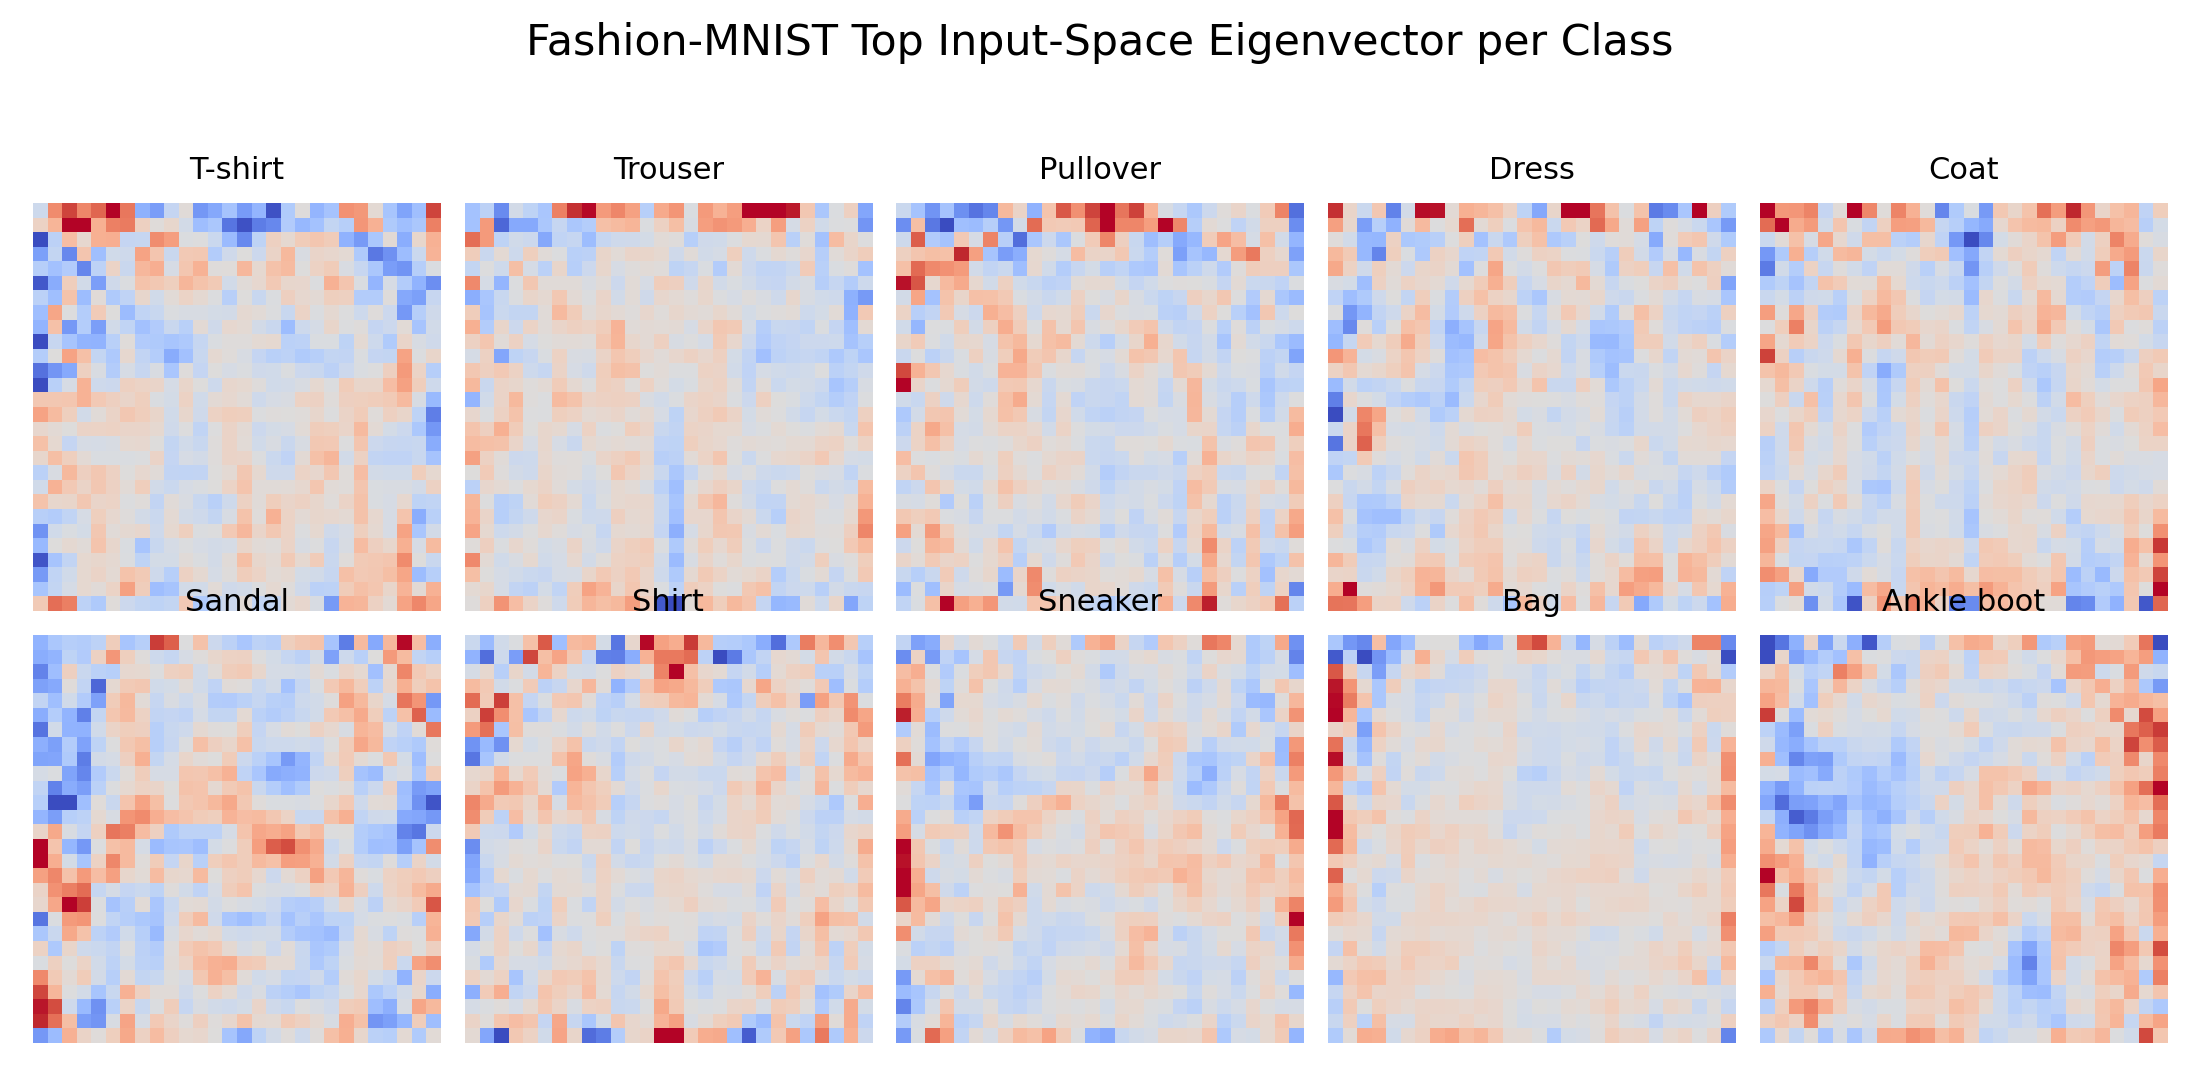
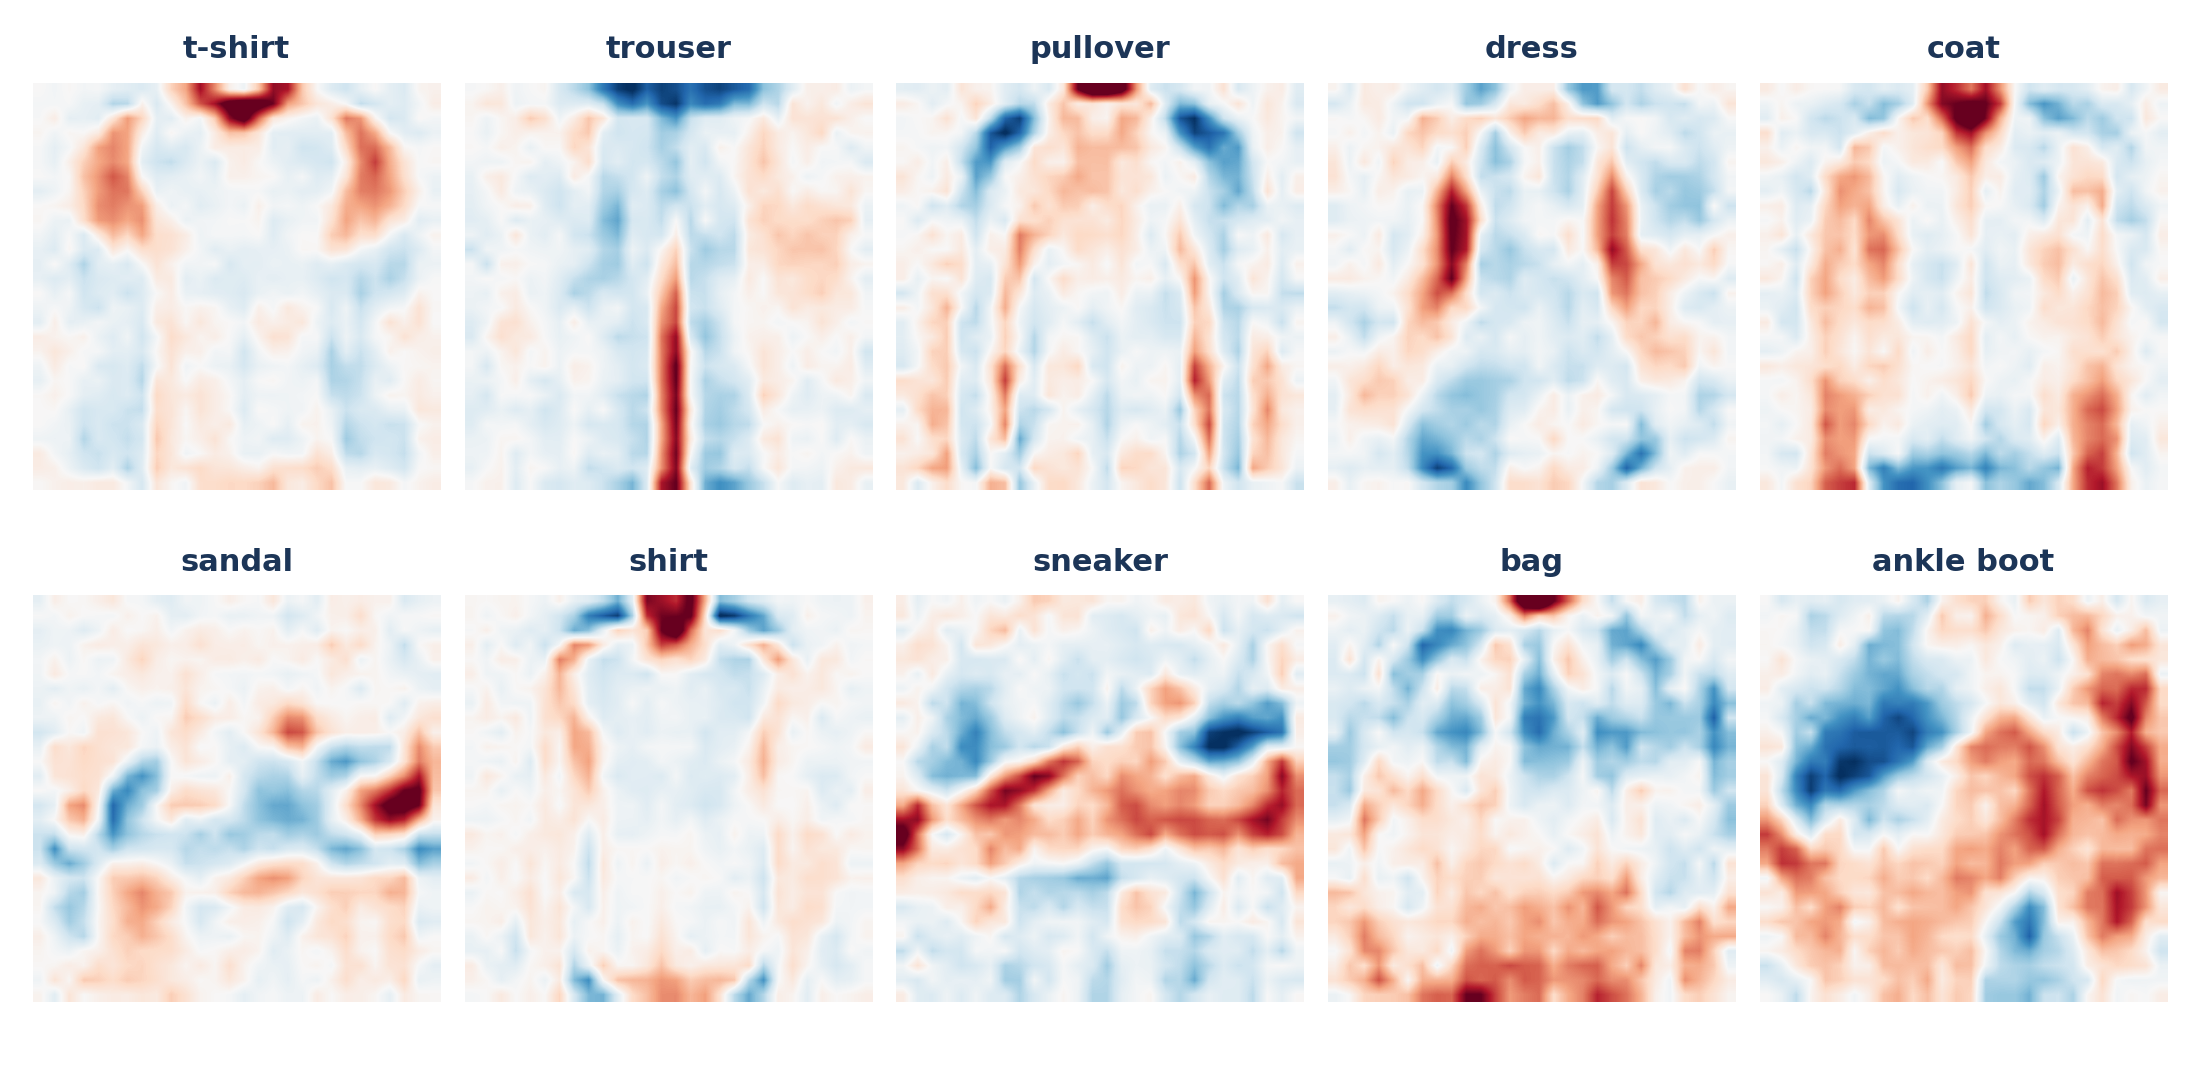
Improve Task C report eigenvector figures

diff --git a/scripts/build_task_c_report_assets.py b/scripts/build_task_c_report_assets.py
@@ -1,0 +1,113 @@
+#!/usr/bin/env python
+from __future__ import annotations
+
+import argparse
+import os
+from pathlib import Path
+
+os.environ.setdefault('MPLCONFIGDIR', str(Path('report_assets/.mplconfig')))
+
+import matplotlib.pyplot as plt
+import torch
+
+from _bootstrap import ensure_src_on_path
+from visualize_eigenvectors import CLASS_NAMES, load_decomposition, orient_vector, reshape_vector, select_component_indices
+
+ensure_src_on_path()
+
+
+def parse_indices(raw: str) -> list[int]:
+    return [int(value.strip()) for value in raw.split(',') if value.strip()]
+
+
+def selected_images(
+    *,
+    decomposition_path: Path,
+    dataset: str,
+    class_indices: list[int],
+    image_size: int,
+    channels: int,
+    component_mode: str,
+) -> list[tuple[str, torch.Tensor]]:
+    payload = load_decomposition(decomposition_path)
+    eigenvalues = payload['eigenvalues']
+    eigenvectors_input = payload['eigenvectors_input']
+    component_indices = select_component_indices(eigenvalues, component_mode)
+    class_names = CLASS_NAMES[dataset]
+
+    images = []
+    for class_idx in class_indices:
+        component_idx = int(component_indices[class_idx].item())
+        vector = orient_vector(eigenvectors_input[class_idx, component_idx])
+        images.append((class_names[class_idx], reshape_vector(vector, channels, image_size)))
+    return images
+
+
+def plot_comparison(
+    *,
+    rows: list[list[tuple[str, torch.Tensor]]],
+    output_path: Path,
+    channels: int,
+    quantile: float,
+) -> None:
+    row_count = len(rows)
+    col_count = max(len(row) for row in rows)
+    fig, axes = plt.subplots(row_count, col_count, figsize=(col_count * 1.8, row_count * 1.85))
+    if row_count == 1:
+        axes = [axes]
+
+    for row_idx, row in enumerate(rows):
+        for col_idx in range(col_count):
+            ax = axes[row_idx][col_idx]
+            ax.axis('off')
+            if col_idx >= len(row):
+                continue
+            label, image = row[col_idx]
+            vmax = float(torch.quantile(image.abs().flatten(), quantile).item())
+            if channels == 1:
+                ax.imshow(image, cmap='RdBu_r', vmin=-vmax, vmax=vmax, interpolation='bilinear')
+            else:
+                ax.imshow(image, cmap='RdBu_r', vmin=-vmax, vmax=vmax, interpolation='bilinear')
+            ax.set_title(label, fontsize=10, fontweight='bold', color='#1c3557', pad=6)
+
+    fig.tight_layout(h_pad=0.9, w_pad=0.55)
+    output_path.parent.mkdir(parents=True, exist_ok=True)
+    fig.savefig(output_path, dpi=300)
+    plt.close(fig)
+
+
+def main() -> None:
+    parser = argparse.ArgumentParser(description='Build compact Task C report eigenvector panels.')
+    parser.add_argument('--mnist-decomposition', type=Path, required=True)
+    parser.add_argument('--fmnist-decomposition', type=Path, required=True)
+    parser.add_argument('--output', type=Path, default=Path('report_assets/task_c/task_c_eigenvector_panel.png'))
+    parser.add_argument('--mnist-classes', type=str, default='1,2,3,4,5')
+    parser.add_argument('--fmnist-classes', type=str, default='1,2,3,4,5')
+    parser.add_argument('--component-mode', choices=['largest', 'abs'], default='largest')
+    parser.add_argument('--quantile', type=float, default=0.995)
+    args = parser.parse_args()
+
+    rows = [
+        selected_images(
+            decomposition_path=args.mnist_decomposition,
+            dataset='mnist',
+            class_indices=parse_indices(args.mnist_classes),
+            image_size=28,
+            channels=1,
+            component_mode=args.component_mode,
+        ),
+        selected_images(
+            decomposition_path=args.fmnist_decomposition,
+            dataset='fashion_mnist',
+            class_indices=parse_indices(args.fmnist_classes),
+            image_size=28,
+            channels=1,
+            component_mode=args.component_mode,
+        ),
+    ]
+    plot_comparison(rows=rows, output_path=args.output, channels=1, quantile=float(args.quantile))
+    print(f'Task C report panel saved to {args.output}')
+
+
+if __name__ == '__main__':
+    main()

diff --git a/scripts/visualize_eigenvectors.py b/scripts/visualize_eigenvectors.py
@@ -21,16 +21,16 @@ from reading_weights.utils import ensure_dir
 CLASS_NAMES = {
     'mnist': [str(idx) for idx in range(10)],
     'fashion_mnist': [
-        'T-shirt',
-        'Trouser',
-        'Pullover',
-        'Dress',
-        'Coat',
-        'Sandal',
-        'Shirt',
-        'Sneaker',
-        'Bag',
-        'Ankle boot',
+        't-shirt',
+        'trouser',
+        'pullover',
+        'dress',
+        'coat',
+        'sandal',
+        'shirt',
+        'sneaker',
+        'bag',
+        'ankle boot',
     ],
     'cifar10': [
         'airplane',
@@ -135,16 +135,19 @@ def plot_top_eigenvectors(
             vmax = global_vmax
         vmin = -vmax
         if channels == 1:
-            ax.imshow(image, cmap='coolwarm', vmin=vmin, vmax=vmax)
+            ax.imshow(image, cmap='RdBu_r', vmin=vmin, vmax=vmax, interpolation='bilinear')
         else:
-            ax.imshow(image, cmap='coolwarm', vmin=vmin, vmax=vmax)
+            ax.imshow(image, cmap='RdBu_r', vmin=vmin, vmax=vmax, interpolation='bilinear')
         title_text = class_names[class_idx]
         if show_eigenvalue:
             title_text = f'{title_text}\nlambda={selected_eigenvalues[class_idx]:.3g}'
-        ax.set_title(title_text, fontsize=10, pad=8)
+        ax.set_title(title_text, fontsize=10, fontweight='bold', color='#1c3557', pad=8)
 
-    fig.suptitle(title, fontsize=14)
-    fig.tight_layout(rect=(0, 0, 1, 0.92), h_pad=1.8, w_pad=0.8)
+    if title:
+        fig.suptitle(title, fontsize=14)
+        fig.tight_layout(rect=(0, 0, 1, 0.92), h_pad=1.8, w_pad=0.8)
+    else:
+        fig.tight_layout(h_pad=1.8, w_pad=0.8)
     output_path.parent.mkdir(parents=True, exist_ok=True)
     fig.savefig(output_path, dpi=220)
     plt.close(fig)
@@ -174,7 +177,7 @@ def main() -> None:
         action='store_true',
         help='Include the selected eigenvalue in each subplot title.',
     )
-    parser.add_argument('--title', type=str, default='Top Eigenvector per Class', help='Figure title.')
+    parser.add_argument('--title', type=str, default='', help='Optional figure title.')
     args = parser.parse_args()
 
     ensure_dir(args.output.parent)

diff --git a/src/reading_weights/train.py b/src/reading_weights/train.py
@@ -49,6 +49,7 @@ def train_image_experiment(config: dict) -> dict[str, Path]:
     config.setdefault('train', {})
     config['train'].setdefault('split_seed', int(config['seed']))
     config['train'].setdefault('l1_lambda', 0.0)
+    config['train'].setdefault('train_input_noise_std', 0.0)
     device = resolve_device(config['train'].get('device', 'auto'))
     if device.type == 'cpu':
         config['train']['pin_memory'] = False
@@ -65,6 +66,7 @@ def train_image_experiment(config: dict) -> dict[str, Path]:
 
     criterion = nn.CrossEntropyLoss()
     l1_lambda = float(config['train'].get('l1_lambda', 0.0))
+    train_input_noise_std = float(config['train'].get('train_input_noise_std', 0.0))
     optimizer = AdamW(
         model.parameters(),
         lr=float(config['train']['lr']),
@@ -93,6 +95,8 @@ def train_image_experiment(config: dict) -> dict[str, Path]:
         for batch_idx, (x, y) in enumerate(dataset_bundle.train_loader, start=1):
             x = x.to(device, non_blocking=True)
             y = y.to(device, non_blocking=True)
+            if train_input_noise_std > 0.0:
+                x = x + train_input_noise_std * torch.randn_like(x)
 
             optimizer.zero_grad(set_to_none=True)
             logits = model(x)

diff --git a/TASK_C_WORKLOG.md b/TASK_C_WORKLOG.md
@@ -1,10 +1,10 @@
 # Task C Worklog
 
-This file records the eigenvector visualization work for Task C: build a visualization module and replicate the Fig. 2/3-style top input-space eigenvector per output class.
+This file records the eigenvector visualization work for Task C: build a visualization module and replicate the Fig. 2/3-style top input-space eigenvector analysis.
 
 ## 2026-05-01
 
-### Code changes
+### Initial implementation
 
 - Added `scripts/visualize_eigenvectors.py`.
 - The script reads a saved `decomposition.pt`, selects the top input-space eigenvector for each output class, reshapes it to image space, and writes a class-grid PNG.
@@ -14,27 +14,48 @@ This file records the eigenvector visualization work for Task C: build a visuali
   - per-image robust color scaling
   - class labels without eigenvalue clutter
 
-### MNIST figure
+### Figure-quality correction
 
-- Training command: `.venv/bin/python scripts/train_baseline.py --config configs/mnist_task_c_mps.yaml`
-- Run: `mnist_task_c_mps_20260501-210901`
-- Best validation accuracy: `0.9768`
-- Test accuracy at best validation checkpoint: `0.9750`
-- Decomposition command: `.venv/bin/python scripts/analyze_checkpoint.py --checkpoint checkpoints/mnist_task_c_mps_20260501-210901.pt`
-- Figure command: `.venv/bin/python scripts/visualize_eigenvectors.py --decomposition results/analysis/mnist_task_c_mps_20260501-210901/decomposition.pt --output report_assets/task_c/mnist_top_eigenvectors.png --dataset mnist --image-size 28 --channels 1 --title 'MNIST Top Input-Space Eigenvector per Class'`
+The first Task C figures were mathematically correct but visually too noisy: the top projected eigenvectors emphasized outlying pixel artifacts rather than coherent digit/clothing structure. This matched the failure mode described in the source paper/tutorial for unregularized image classifiers.
+
+To fix this without changing checkpoint or decomposition formats, training now supports optional training-only Gaussian input noise via `train.train_input_noise_std`. This is used only during optimization and is disabled for validation, test evaluation, checkpoint loading, and decomposition.
+
+Code/config additions:
+
+- `src/reading_weights/train.py`: optional `train_input_noise_std`
+- `configs/mnist_task_c_noise_mps.yaml`
+- `configs/fmnist_task_c_noise_mps.yaml`
+- `scripts/build_task_c_report_assets.py`
+
+### MNIST regularized visualization run
+
+- Training command: `.venv/bin/python scripts/train_baseline.py --config configs/mnist_task_c_noise_mps.yaml`
+- Run: `mnist_task_c_noise_mps_20260501-215026`
+- Best validation accuracy: `0.9763`
+- Test accuracy at best validation checkpoint: `0.9767`
+- Decomposition command: `.venv/bin/python scripts/analyze_checkpoint.py --checkpoint checkpoints/mnist_task_c_noise_mps_20260501-215026.pt`
+- All-class figure command: `.venv/bin/python scripts/visualize_eigenvectors.py --decomposition results/analysis/mnist_task_c_noise_mps_20260501-215026/decomposition.pt --output report_assets/task_c/mnist_top_eigenvectors.png --dataset mnist --image-size 28 --channels 1`
 - Output: `report_assets/task_c/mnist_top_eigenvectors.png`
 
-### Fashion-MNIST figure
+### Fashion-MNIST regularized visualization run
 
-- Training command: `.venv/bin/python scripts/train_baseline.py --config configs/fmnist_task_c_mps.yaml`
-- Run: `fmnist_task_c_mps_20260501-210659`
-- Best validation accuracy: `0.8910`
-- Test accuracy at best validation checkpoint: `0.8806`
-- Decomposition command: `.venv/bin/python scripts/analyze_checkpoint.py --checkpoint checkpoints/fmnist_task_c_mps_20260501-210659.pt`
-- Figure command: `.venv/bin/python scripts/visualize_eigenvectors.py --decomposition results/analysis/fmnist_task_c_mps_20260501-210659/decomposition.pt --output report_assets/task_c/fmnist_top_eigenvectors.png --dataset fashion_mnist --image-size 28 --channels 1 --title 'Fashion-MNIST Top Input-Space Eigenvector per Class'`
+- Training command: `.venv/bin/python scripts/train_baseline.py --config configs/fmnist_task_c_noise_mps.yaml`
+- Run: `fmnist_task_c_noise_mps_20260501-214848`
+- Best validation accuracy: `0.8695`
+- Test accuracy at best validation checkpoint: `0.8580`
+- Decomposition command: `.venv/bin/python scripts/analyze_checkpoint.py --checkpoint checkpoints/fmnist_task_c_noise_mps_20260501-214848.pt`
+- All-class figure command: `.venv/bin/python scripts/visualize_eigenvectors.py --decomposition results/analysis/fmnist_task_c_noise_mps_20260501-214848/decomposition.pt --output report_assets/task_c/fmnist_top_eigenvectors.png --dataset fashion_mnist --image-size 28 --channels 1`
 - Output: `report_assets/task_c/fmnist_top_eigenvectors.png`
+
+### Main report panel
+
+- Command: `.venv/bin/python scripts/build_task_c_report_assets.py --mnist-decomposition results/analysis/mnist_task_c_noise_mps_20260501-215026/decomposition.pt --fmnist-decomposition results/analysis/fmnist_task_c_noise_mps_20260501-214848/decomposition.pt --output report_assets/task_c/task_c_eigenvector_panel.png`
+- Output: `report_assets/task_c/task_c_eigenvector_panel.png`
+- Contents: MNIST digits `1-5` and Fashion-MNIST classes `trouser`, `pullover`, `dress`, `coat`, `sandal`, matching the paper-style compact comparison.
 
 ### Current read
 
-- Task C is now implemented in the reproducible sense: a script can regenerate the class-wise top-eigenvector grids from decomposition artifacts.
-- The report should frame these as qualitative replications of the Fig. 2/3 visualization procedure rather than as new quantitative claims.
+- Task C is now implemented in the reproducible and report-quality sense.
+- The report should use `task_c_eigenvector_panel.png` as the main Task C figure.
+- The all-class grids are useful supplementary assets.
+- The regularized Task C checkpoints are intended for qualitative eigenvector clarity; they should not replace the higher-accuracy baseline numbers when discussing classifier performance.

diff --git a/report_assets/task_c/task_c_narrative.md b/report_assets/task_c/task_c_narrative.md
@@ -1,17 +1,22 @@
 # Task C Narrative
 
-Task C implements the visualization side of the bilinear-weight analysis. For each output class, we eigendecompose the class-specific symmetrized bilinear matrix and project the selected hidden-space eigenvector back into input space through the learned embedding matrix. The resulting vector is reshaped as an image and plotted in a class grid.
+Task C implements the visualization side of the bilinear-weight analysis. For each output class, we eigendecompose the class-specific symmetrized bilinear matrix, select the top positive eigendirection, project the hidden-space eigenvector back into input space through the learned embedding matrix, reshape it as an image, and plot the result.
+
+The initial unregularized figures were too pixel-artifact-heavy for a serious report figure. The final Task C figures therefore use paper-aligned training-only Gaussian input noise to reduce outlying-pixel overfit while preserving the same checkpoint and decomposition interfaces.
 
 ## Report Figures
 
-- `mnist_top_eigenvectors.png`: top input-space eigenvector per MNIST output class.
-- `fmnist_top_eigenvectors.png`: top input-space eigenvector per Fashion-MNIST output class.
+- `task_c_eigenvector_panel.png`: main compact report panel; MNIST digits `1-5` and Fashion-MNIST classes `trouser`, `pullover`, `dress`, `coat`, `sandal`.
+- `mnist_top_eigenvectors.png`: supplementary all-class MNIST grid.
+- `fmnist_top_eigenvectors.png`: supplementary all-class Fashion-MNIST grid.
 
 ## Runs
 
-- MNIST: `mnist_task_c_mps_20260501-210901`, best validation accuracy `97.68%`, test accuracy `97.50%`.
-- Fashion-MNIST: `fmnist_task_c_mps_20260501-210659`, best validation accuracy `89.10%`, test accuracy `88.06%`.
+- MNIST visualization checkpoint: `mnist_task_c_noise_mps_20260501-215026`, best validation accuracy `97.63%`, test accuracy `97.67%`.
+- Fashion-MNIST visualization checkpoint: `fmnist_task_c_noise_mps_20260501-214848`, best validation accuracy `86.95%`, test accuracy `85.80%`.
+
+These are visualization-quality checkpoints. Use the Task A / baseline numbers when discussing best MNIST or Fashion-MNIST classifier accuracy.
 
 ## Suggested Caption
 
-Top input-space eigenvectors for each output class after projecting hidden-space eigendirections through the learned input embedding. Each panel is scaled independently to emphasize the spatial pattern of the selected class direction; color indicates signed contribution.
+Top input-space eigenvectors for a regularized single-layer bilinear classifier. Hidden-space eigendirections are projected through the learned input embedding and reshaped as images. MNIST eigenvectors recover digit strokes, while Fashion-MNIST eigenvectors behave more like class-specific edge templates. Each panel is independently scaled; color indicates signed eigenvector structure, not positive/negative class evidence by itself.
